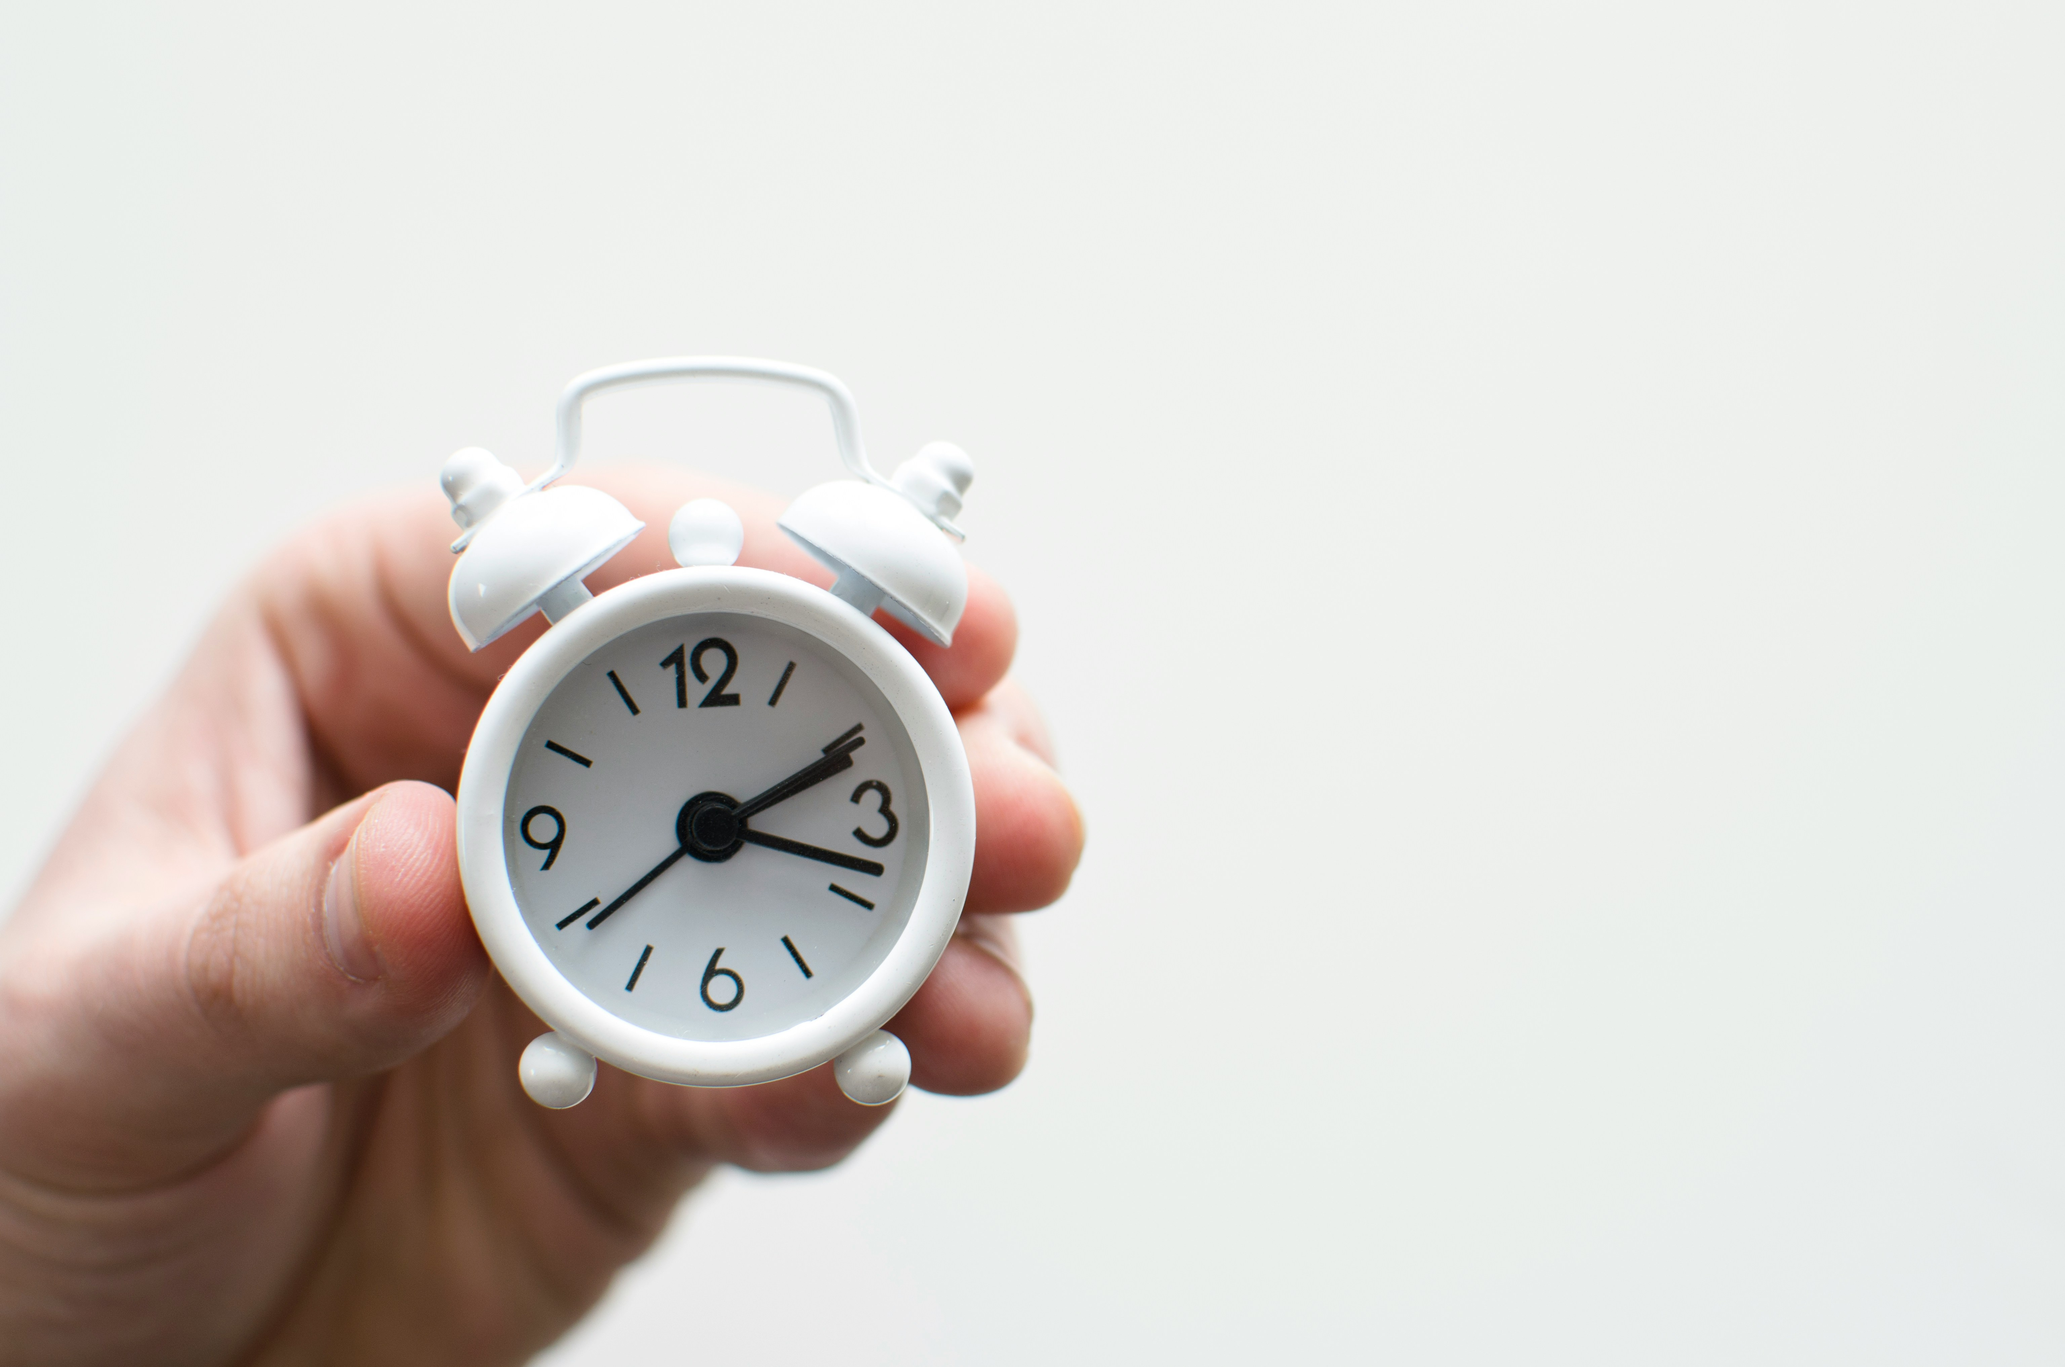
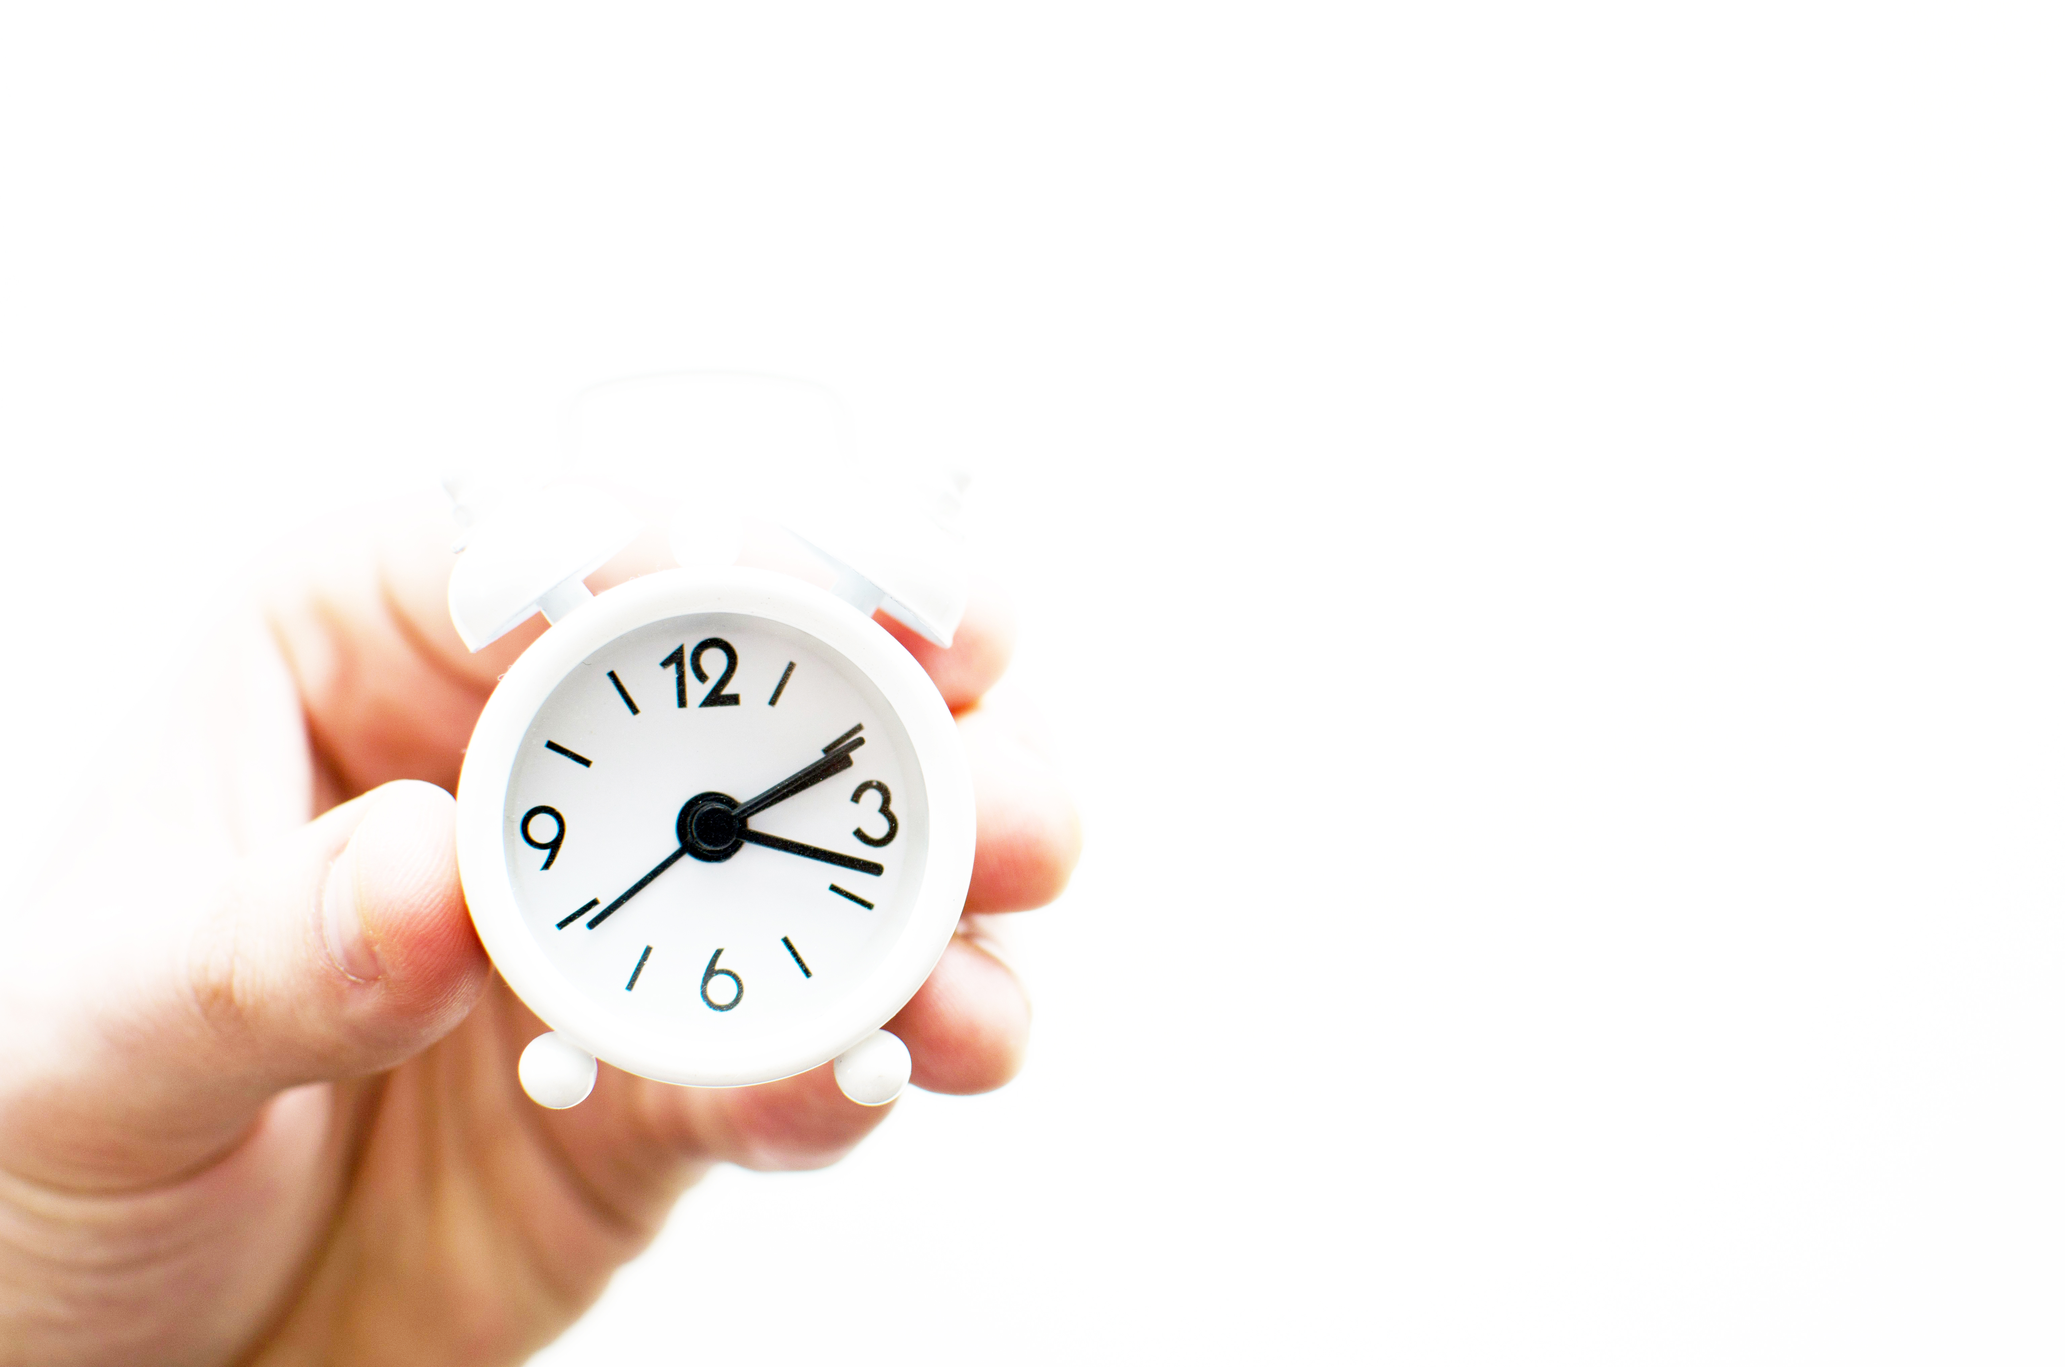
new changes

Changed region(s): [[0.0, 0.2497, 0.5312, 1.0]]

diff --git a/my-react-app/src/App.jsx b/my-react-app/src/App.jsx
@@ -1,7 +1,7 @@
 import React, { useState, useEffect } from 'react';
 import './App.css';
 import logo from '/logo2.png';
-import fillerImg from '/fillerImg2.jpg';
+import fillerImg from '/fillerImg5.jpg';
 import instructions from '/pamphlet2.png';
 
 
@@ -26,7 +26,8 @@ function App() {
   const [colorSet, setColorSet] = useState(false);
   const [rewardStr, setRewardStr] = useState('');
   const [showReward, setShowReward] = useState(false);
-  
+  const [showSteps, setShowSteps] = useState(0);
+  const [story, setStory] = useState(false);
 
   useEffect(() => {
     // Cleanup function
@@ -38,6 +39,9 @@ function App() {
     };
   }, [bleServer]);
 
+ const handleStory = (value) => {
+  setStory(value);
+ }
   const getCurrentTime = () => {
     // Get the current time as milliseconds since midnight
     const  now = new Date();
@@ -118,6 +122,9 @@ function App() {
        
   };
 
+  const handleTroubleshoot = (value) => {
+    setShowSteps(value);
+  };
 
 
   const handleSoundChange = (value) => {
@@ -436,7 +443,7 @@ function App() {
               <div className="radioWrapper">
                 <label>
                   <input type="radio" value="1" checked={soundMode === 1} onChange={() => handleSoundChange(1)} />
-                  Sound On
+                  Interval Chime
                 </label>
                 <label>
                   <input type="radio" value="2" checked={soundMode === 2} onChange={() => handleSoundChange(2)} />
@@ -452,6 +459,10 @@ function App() {
                 </label>
               </div>
 
+              <label>
+                  <input type="radio" value="0" checked={reward === 0} onChange={() => handleRewardChange(0)} />
+                  Skip reward
+                </label>
               <label>
                   <input type="radio" value="1" checked={reward === 1} onChange={() => handleRewardChange(1)} />
                   Reward point at end of timer
@@ -488,7 +499,7 @@ function App() {
               
   
               <button className="blackButton" onClick={() => sendArray(chimeTimeBytes)} disabled={!connected}>
-                Start Clock
+                Start Timer
               </button>
               
               
@@ -595,7 +606,11 @@ function App() {
                   With each petal
                 </label>
               </div>
-
+              
+              <label>
+                  <input type="radio" value="0" checked={reward === 0} onChange={() => handleRewardChange(0)} />
+                  Skip reward
+                </label>
               <label id="pushLabel">
                   <input type="radio" value="1" checked={reward === 1} onChange={() => handleRewardChange(1)} />
                   Reward point at end of task sequence
@@ -620,7 +635,7 @@ function App() {
                         
 
               <button className="blackButton" onClick={sendTasks2} disabled={!connected}>
-                Start Clock
+                Start Timer
               </button>
               </div>
               
@@ -739,6 +754,10 @@ function App() {
                 </div>
               )}
               
+              <label>
+                  <input type="radio" value="0" checked={reward === 0} onChange={() => handleRewardChange(0)} />
+                  Skip reward
+                </label>
               <label id="pushLabel">
                   <input type="radio" value="1" checked={reward === 1} onChange={() => handleRewardChange(1)} />
                   Reward point at end of task sequence
@@ -761,7 +780,7 @@ function App() {
                 )}
   
               <button className="blackButton" onClick={() => sendArray(negBytes)} disabled={!connected}>
-                Start Clock
+                Start Timer
               </button>
             </div>
               
@@ -873,10 +892,6 @@ function App() {
                 
             <div className="radioWrapper">
               <label>
-                <input type="radio" value="1" checked={soundMode === 1} onChange={() => handleSoundChange(1)} />
-                Sound On
-              </label>
-              <label>
                 <input type="radio" value="2" checked={soundMode === 2} onChange={() => handleSoundChange(2)} />
                 Sound Off
               </label>
@@ -889,8 +904,11 @@ function App() {
                 With each petal
               </label>
             </div>
-            
-            
+              
+            <label>
+                  <input type="radio" value="0" checked={reward === 0} onChange={() => handleRewardChange(0)} />
+                  Skip reward
+                </label>           
 
               <label id="pushLabel">
                   <input type="radio" value="1" checked={reward === 1} onChange={() => handleRewardChange(1)} />
@@ -915,7 +933,7 @@ function App() {
             
 
             <button className="blackButton" onClick={() => sendCommand2(byteArr, bankTask)} disabled={!connected}>
-              Start Clock
+              Start Timer
             </button>
             
         </div>
@@ -926,18 +944,13 @@ function App() {
           <>
           <div id="welcomeContact"
           >
-          <div id="welcomeImgWrapper"style={{
-              backgroundImage: `url(${fillerImg})`,
-              backgroundSize: '100%',
-              backgroundPosition: 'center',}}>
-          <h3 id="welcomeStatement">ShineTime is an <span className="makeBold">innovative tool for time management </span>geared towards <span className="makeBold">children with ADHD</span>. This website is a <span className="makeBold">portal</span> that allows you to <span className="makeBold">set different modes</span> on the ShineTime timer based on your <span className="makeBold">time management goals</span>. Each mode is research-based and meant to help children with ADHD <span className="makeBold">celebrate their different way of understanding time</span> while helping them accomplish tasks. 
-          </h3>
-          </div>
+          
+          <h3><span id = "gettingStarted" className = "makeBold">Instructions and Troubleshooting Tips</span></h3>
           <img id="pamphlet" alt="instruction pamphlet" src={instructions}/>
           <div id="instructions">
           <h3 id="instructionh3">Bluetooth Instructions:</h3>
           <ul>
-          <li><span className="makeBold">Step 1:</span> After plugging in the timer, wait for the "Welcome to Shine Time" message on the screen, and the rainbow lights. This means you're ready to pair!</li>
+          <li><span className="makeBold">Step 1:</span> After plugging in the timer, wait for the "Welcome to Shine Time" message on the screen, chime, and the rainbow lights. This means you're ready to pair!</li>
             <li><span className="makeBold">Step 2:</span> Ensure the WebBluetooth API on your browser (automatically included with Chrome and Edge)</li>
             <li><span className="makeBold">Step 3:</span> Connect to the clock. A Web Bluetooth API window will pop up asking for permission. The name of the connection is "DSD Tech". It may take a minute to load, so please be patient!</li>
             <li><span className="makeBold">Step 4:</span> Click "Start Timer" to send your customizations and settings to the timer.</li>
@@ -945,19 +958,25 @@ function App() {
           <h3 id="troubleTitle">Troubleshooting:</h3>
           <div id="troubleshoot">
             <div className="troubleCard">
-              <p><span className="faq">GATT error, no connection, or disconnected</span></p>
-              <p>Refresh the page and try again. If this does not work, unplug the timer, then refresh the page. Plug the timer in again and wait for the rainbow lights, then try connecting again.</p>
+              <p><span value= "1" onClick = {() => handleTroubleshoot(1)} className="faq">GATT error, no connection, or disconnected</span></p>
+              {showSteps === 1 && (
+                <p>Refresh the page and try again. If this does not work, unplug the timer, then refresh the page. Plug the timer in again and wait for the rainbow lights, then try connecting again.</p>
+              )}
             </div>
             <div className="troubleCard">
-              <p><span className="faq">Customized colors are not showing up correctly</span></p>
-              <p>Wait roughly 10 seconds and then try to send the colors again. If not, follow the same steps for no connection.</p>
+              <p><span value= "2" onClick = {() => handleTroubleshoot(2)} className="faq">Customized colors are not showing up correctly</span></p>
+              {showSteps === 2 && (
+                <p>Wait roughly 30 seconds and then try to send the colors again. If not, follow the same stres for no connection.</p>
+              )}
             </div>
             <div className="troubleCard">
-              <p><span className="faq">Timer is unresponsive, time is incorrect, or screen is displaying gibberish</span></p>
-              <p>Wait roughly 10 seconds, and try to send the customization again. If it's not working, try to follow the same steps for no connection. Sometimes it takes the bluetooth a second to catch up if you are sending multiple commands at once.</p>
+              <p><span value= "3" onClick={() => handleTroubleshoot(3)}className="faq">Timer is unresponsive, time is incorrect, or screen is displaying gibberish</span></p>
+              {showSteps === 3 && (
+                <p>Wait roughly 30 seconds, and try to send the customization again. If it's not working, try to follow the same steps for no connection.</p>
+              )}
             </div>
           </div>
-          <p className="contact">Contact or request a new mode: kaila.ho@colorado.edu. Image Courtesy of Lukas Blazek via Unsplash</p>
+          <p className="contact">Contact or request a new mode: kaila.ho@colorado.edu. Image Courtesy of insung yoon via Unsplash</p>
           </div>
           
           </div>
@@ -974,12 +993,24 @@ function App() {
               backgroundPosition: 'center',}}>
           <h3 id="welcomeStatement">ShineTime is an <span className="makeBold">innovative tool for time management </span>geared towards <span className="makeBold">children with ADHD</span>. This website is a <span className="makeBold">portal</span> that allows you to <span className="makeBold">set different modes</span> on the ShineTime timer based on your <span className="makeBold">time management goals</span>. Each mode is research-based and meant to help children with ADHD <span className="makeBold">celebrate their different way of understanding time</span> while helping them accomplish tasks. 
           </h3>
+          
+
           </div>
+          <div id="storyCanvas">
+          <button id ="storyButton" onClick={() => handleStory(true)}>
+            <span className = "makeBold">The Story Behind ShineTime ▼</span>
+          </button>
+          {story &&(
+              <p id="story">
+              This product is inspired by the power of assistive technology to help users in their every day lives and a passion for creating tools for children with learning disabilities. The journey of this product focused largely on designing with, not for, a community that could benefit from its functionality and was an amazing opportunity to collaborate closely with a community of families navigating the challenges and unique perspectives posed by ADHD. The aim was to create a timer that wasn't just functional but also visually appealing, providing an engaging way for children to engage with time and task management without the distraction of screen-based solutions. The intention is that a parent could customize a timer experience for their child with functionality ranging from task setting to auditory feedback which then would help them see time passing in an engaging and tailored manner. Through various modes, parents can guide their children to better understand the concept of time in ways tailored to their unique learning styles with the goal of celebrating their distinctive perception of time.</p>
+            )} 
+          </div>
+          <h3><span id = "gettingStarted" className = "makeBold">Getting Started</span></h3>
           <img id="pamphlet" alt="instruction pamphlet" src={instructions}/>
           <div id="instructions">
           <h3 id="instructionh3">Bluetooth Instructions:</h3>
           <ul>
-          <li><span className="makeBold">Step 1:</span> After plugging in the timer, wait for the "Welcome to Shine Time" message on the screen, and the rainbow lights. This means you're ready to pair!</li>
+          <li><span className="makeBold">Step 1:</span> After plugging in the timer, wait for the "Welcome to Shine Time" message on the screen, chime, and the rainbow lights. This means you're ready to pair!</li>
             <li><span className="makeBold">Step 2:</span> Ensure the WebBluetooth API on your browser (automatically included with Chrome and Edge)</li>
             <li><span className="makeBold">Step 3:</span> Connect to the clock. A Web Bluetooth API window will pop up asking for permission. The name of the connection is "DSD Tech". It may take a minute to load, so please be patient!</li>
             <li><span className="makeBold">Step 4:</span> Click "Start Timer" to send your customizations and settings to the timer.</li>
@@ -987,19 +1018,25 @@ function App() {
           <h3 id="troubleTitle">Troubleshooting:</h3>
           <div id="troubleshoot">
             <div className="troubleCard">
-              <p><span className="faq">GATT error, no connection, or disconnected</span></p>
-              <p>Refresh the page and try again. If this does not work, unplug the timer, then refresh the page. Plug the timer in again and wait for the rainbow lights, then try connecting again.</p>
+              <p><span value= "1" onClick = {() => handleTroubleshoot(1)} className="faq">GATT error, no connection, or disconnected</span></p>
+              {showSteps === 1 && (
+                <p>Refresh the page and try again. If this does not work, unplug the timer, then refresh the page. Plug the timer in again and wait for the rainbow lights, then try connecting again.</p>
+              )}
             </div>
             <div className="troubleCard">
-              <p><span className="faq">Customized colors are not showing up correctly</span></p>
-              <p>Wait roughly 30 seconds and then try to send the colors again. If not, follow the same stres for no connection.</p>
+              <p><span value= "2" onClick = {() => handleTroubleshoot(2)} className="faq">Customized colors are not showing up correctly</span></p>
+              {showSteps === 2 && (
+                <p>Wait roughly 30 seconds and then try to send the colors again. If not, follow the same stres for no connection.</p>
+              )}
             </div>
             <div className="troubleCard">
-              <p><span className="faq">Timer is unresponsive, time is incorrect, or screen is displaying gibberish</span></p>
-              <p>Wait roughly 30 seconds, and try to send the customization again. If it's not working, try to follow the same steps for no connection.</p>
+              <p><span value= "3" onClick={() => handleTroubleshoot(3)}className="faq">Timer is unresponsive, time is incorrect, or screen is displaying gibberish</span></p>
+              {showSteps === 3 && (
+                <p>Wait roughly 30 seconds, and try to send the customization again. If it's not working, try to follow the same steps for no connection.</p>
+              )}
             </div>
           </div>
-          <p className="contact">Contact or request a new mode: kaila.ho@colorado.edu. Image Courtesy of Lukas Blazek via Unsplash</p>
+          <p className="contact">Contact or request a new mode: kaila.ho@colorado.edu. Image Courtesy of insung yoon via Unsplash</p>
           </div>
           
           </div>

diff --git a/my-react-app/src/App.css b/my-react-app/src/App.css
@@ -27,7 +27,7 @@ ul{
   justify-content: left;
   text-align: left;
   font-size: 1.2em;
-  background-color: rgb(242, 203, 95);
+  
  
 }
 
@@ -49,7 +49,7 @@ ul{
   border-radius: 2em;
   background-color: transparent;
   width: 50%;
-  margin-left: 23em;
+  margin-left: 20em;
   margin-top: 2.5em;
   text-align: left;
   line-height: 1.5em;
@@ -353,28 +353,64 @@ label{
   display: flex;
   flex-direction: row;
   justify-content: space-around;
+  margin: 1em;
   
 }
 
 .troubleCard{
   display: flex;
   flex-direction: column;
-  background-color: white;
+  background-color: rgb(242, 203, 95);
   color: black;
   padding: 1em;
   margin: 1em;
   border-radius: 2em;
+  font-size: .9em;
+
 }
 
 #troubleTitle{
  
   margin: 0em;
   padding-top: 1em;
-  padding-left: 1.3em;
+  padding-left: 2em;
+  font-size: 1.2em;
   font-weight: bold;
 }
 .faq{
   font-weight: bold;
-  font-size: 1.1em;
+  font-size: .9em;
   margin-top: 0em;
+}
+
+#storyButton{
+  background-color: black;
+  color: white;
+  font-size: 1em;
+  border-radius: 1em;
+  padding: 1em;
+  border: none;
+}
+
+#storyCanvas{
+  padding: 1em;
+  padding-left: 2em;
+  padding-right: 2em;
+  line-height: 1.8em;
+  font-size: 1.2em;
+  box-shadow: 0px 4px 8px rgba(0, 0, 0, 0.1);
+  margin-bottom: 2em;
+ 
+}
+
+#gettingStarted{
+  font-size: 1.2em;
+  background-color:  rgb(242, 203, 95) ;
+  width: 100%;
+  padding: .5em;
+  border-radius: 2em;
+}
+
+#story{
+  text-align: left;
 }
